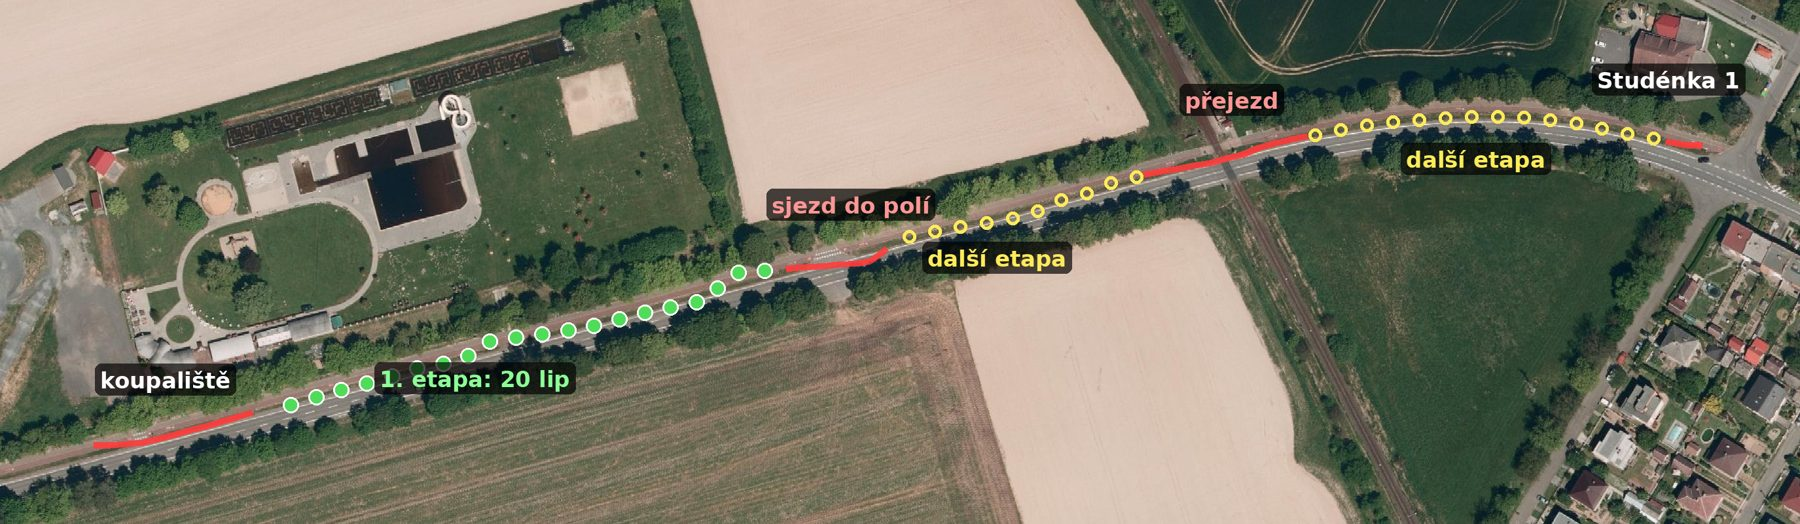
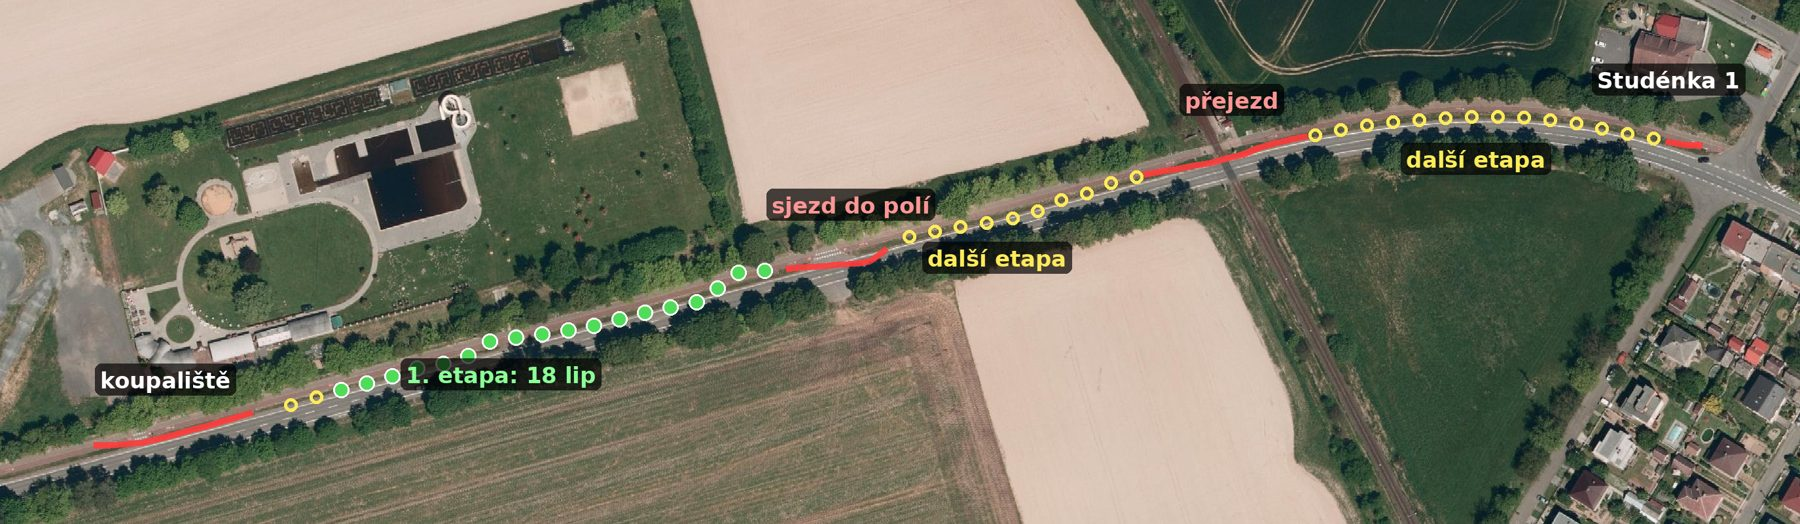
Lipová alej: ceny 2027, 18 lip

Changed region(s): [[0.1556, 0.6718, 0.3422, 0.7939]]

diff --git a/index.html b/index.html
@@ -125,7 +125,7 @@ table.cost tr.sum td{font-weight:700;border-top:2px solid var(--ink)}
 <h2>Hlavní návrh</h2>
 
 <div class="idea top" id="sjednoceni">
-  <div class="price">385 748 Kč</div>
+  <div class="price">374 713 Kč</div>
   <h3>Lipová alej na Sjednocení</h3>
   <div class="tags"><span class="tag hot">hlavní návrh</span><span class="tag">stín</span><span class="tag">stromy</span><span class="tag">cyklostezka</span></div>
   <p>Cyklostezka mezi Butovicemi a Studénkou vede přes pole a v létě na ní není kde se schovat před sluncem. Stromy kolem silnice stojí, ale na severní straně stezky a na druhé straně silnice. V poledne, kdy je největší vedro, stín na stezku nedopadá. Chybí řada mezi silnicí a stezkou, na tom travnatém pásu, kde v létě schne tráva.</p>
@@ -134,7 +134,7 @@ table.cost tr.sum td{font-weight:700;border-top:2px solid var(--ink)}
   <div class="pics one"><img loading="lazy" style="aspect-ratio:auto;object-fit:contain" src="img/sjednoceni_vizualizace.jpg" alt="Vizualizace: řada mladých lip mezi silnicí a cyklostezkou na Sjednocení, stín na stezce"></div>
   <p class="cap">Ilustrační vizualizace (AI), zhruba 8–10 let po výsadbě.</p>
   <div class="pics one"><img loading="lazy" style="aspect-ratio:auto;object-fit:contain" src="img/sjednoceni_plan.jpg" alt="Letecký snímek úseku Sjednocení mezi koupalištěm a přejezdem s vyznačenými stromy první etapy a dalších etap"></div>
-  <p class="cap">Zelené tečky: 1. etapa, 20 lip na úseku asi 190 m mezi sjezdem do polí a koupalištěm. Žluté kroužky: další etapy. Červeně: místa, kde stromy nebudou kvůli výhledu (sjezd do polí, železniční přejezd).</p>
+  <p class="cap">Zelené tečky: 1. etapa, 18 lip na úseku asi 170 m mezi sjezdem do polí a koupalištěm. Žluté kroužky: další etapy. Červeně: místa, kde stromy nebudou kvůli výhledu (sjezd do polí, železniční přejezd).</p>
 
   <svg class="xsec" viewBox="0 0 800 250" role="img" aria-label="Příčný řez: pole se stromy, silnice, nová lípa na kraji příkopu, cyklostezka, stávající stromy">
     <line x1="0" y1="200" x2="800" y2="200" class="ground"/>
@@ -174,24 +174,24 @@ table.cost tr.sum td{font-weight:700;border-top:2px solid var(--ink)}
   </ul>
 
   <table class="cost">
-    <caption>Rozpočet 1. etapy (20 lip, bez DPH)</caption>
-    <tr><td>20 lip malolistých 'Greenspire', obvod kmene 14–16 cm, se zemním balem (4 450 Kč/ks)</td><td>89 000</td></tr>
-    <tr><td>výsadba: jáma 1×1×0,8 m, výměna zeminy, první zálivka (6 100 Kč/ks)</td><td>122 000</td></tr>
-    <tr><td>podzemní kotvení balu vč. montáže (2 090 Kč/ks)</td><td>41 800</td></tr>
-    <tr><td>zálivkové vaky 75 l (250 Kč/ks)</td><td>5 000</td></tr>
-    <tr><td>mulč z kůry a ochrana kmene (300 Kč/ks)</td><td>6 000</td></tr>
-    <tr><td>kořenová bariéra u stezky, 3 m na strom (1 050 Kč/ks)</td><td>21 000</td></tr>
-    <tr><td>doprava stromů a mechanizace</td><td>8 000</td></tr>
-    <tr><td>dopravní opatření při výsadbě</td><td>6 000</td></tr>
-    <tr><td>vytyčení inženýrských sítí</td><td>5 000</td></tr>
-    <tr><td>sadovnický projekt</td><td>15 000</td></tr>
-    <tr><td>celkem bez DPH</td><td>318 800</td></tr>
-    <tr><td>DPH 21 %</td><td>66 948</td></tr>
-    <tr class="sum"><td>celkem s DPH</td><td>385 748 Kč</td></tr>
+    <caption>Rozpočet 1. etapy (18 lip, ceny podzim 2027, bez DPH)</caption>
+    <tr><td>18 lip malolistých 'Greenspire', obvod kmene 14–16 cm, se zemním balem (4 810 Kč/ks)</td><td>86 580</td></tr>
+    <tr><td>výsadba: jáma 1×1×0,8 m, výměna zeminy, první zálivka (6 600 Kč/ks)</td><td>118 800</td></tr>
+    <tr><td>podzemní kotvení balu vč. montáže (2 170 Kč/ks)</td><td>39 060</td></tr>
+    <tr><td>zálivkové vaky 75 l (260 Kč/ks)</td><td>4 680</td></tr>
+    <tr><td>mulč z kůry a ochrana kmene (310 Kč/ks)</td><td>5 580</td></tr>
+    <tr><td>kořenová bariéra u stezky, 3 m na strom (1 090 Kč/ks)</td><td>19 620</td></tr>
+    <tr><td>doprava stromů a mechanizace</td><td>8 320</td></tr>
+    <tr><td>dopravní opatření při výsadbě</td><td>6 240</td></tr>
+    <tr><td>vytyčení inženýrských sítí</td><td>5 200</td></tr>
+    <tr><td>sadovnický projekt</td><td>15 600</td></tr>
+    <tr><td>celkem bez DPH</td><td>309 680</td></tr>
+    <tr><td>DPH 21 %</td><td>65 033</td></tr>
+    <tr class="sum"><td>celkem s DPH</td><td>374 713 Kč</td></tr>
   </table>
-  <p class="cap">Jednotkové ceny: lípa podle ceníku výsadeb TSK Praha (podzim 2025) s příplatkem za kultivar, výsadba podle průměrných cen ÚÚR 2025, kotvení, vaky a bariéra podle aktuálních ceníků dodavatelů. Konečnou cenu určí výběrové řízení města. Pro srovnání: tři stromy do dlažby na náměstí by stály 774 tisíc.</p>
+  <p class="cap">Ceny jsou přepočtené na podzim 2027, kdy se bude sázet: výchozí ceny z let 2025 a 2026 (ceník výsadeb TSK Praha, průměrné ceny ÚÚR, ceníky dodavatelů) navýšené o 4 % ročně podle vývoje cen stavebních prací (ČSÚ). Konečnou cenu určí výběrové řízení města. Pro srovnání: tři stromy do dlažby na náměstí by stály 774 tisíc.</p>
 
-  <p><b>Údržba:</b> první tři roky zálivka Technickými službami, asi 1 500 Kč na strom za rok, tedy kolem 30 tisíc ročně. To je pod limitem 10 % ceny projektu. Pak už jen občasné vyvětvení. Sází se na podzim 2027, kdy se stromy sázejí nejlépe, takže to bude hotové do konce roku.</p>
+  <p><b>Údržba:</b> první tři roky zálivka Technickými službami, asi 1 500 Kč na strom za rok, tedy kolem 27 tisíc ročně. To je pod limitem 10 % ceny projektu. Pak už jen občasné vyvětvení. Sází se na podzim 2027, kdy se stromy sázejí nejlépe, takže to bude hotové do konce roku.</p>
 
   <p><b>Další etapy</b> v dalších letech: úsek mezi sjezdem do polí a přejezdem (asi 10 lip) a úsek za přejezdem až ke Studénce 1 (asi 14 lip). Za přejezdem je pás mezi silnicí a stezkou široký 3,3–3,6 m, příkop je tam ale hlubší, takže umístění stromů tam vyřeší až projekt. U přejezdu a sjezdů zůstane volno kvůli výhledu.</p>
 
